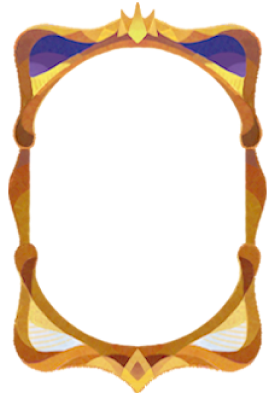
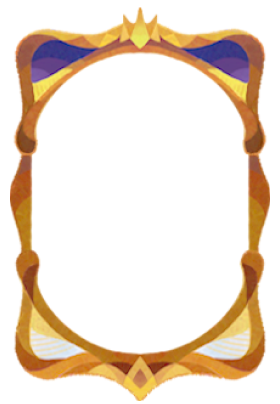
fix: add manual adjustments to certain units

diff --git a/src/components/ascension-card/CardDeckAscension.tsx b/src/components/ascension-card/CardDeckAscension.tsx
@@ -2,23 +2,24 @@
 import { useMemo, useState } from 'react';
 
 import type { CardAscensionProps } from '@/components/ascension-card/CardAscension';
-import type { Faction, Hero, HeroClass } from '@/utils/types';
+import type { Faction, HeroClass } from '@/utils/types';
 import type { FC, PropsWithChildren } from 'react';
 
 import CardAscension from '@/components/ascension-card/CardAscension';
 import { HeroDataProvider } from '@/components/ascension-card/HeroDataProvider';
+import { filterPairs } from '@/components/ascension-card/utils';
 import HeroFilter from '@/components/hero-filter/HeroFilter';
 import { filterHero } from '@/components/hero-filter/utils';
+import { SortedHeroes } from '@/utils/types';
 import { cleanString, compareStrings, joinStrings, kebabCase } from '@/utils/utils';
 
 interface CardDeckAscensionProps extends PropsWithChildren, CardAscensionProps {
   label?: string;
-  heroes?: Hero[];
   units?: Set<string>;
   hasLabel?: boolean;
 }
 
-const CardDeckAscension: FC<CardDeckAscensionProps> = ({ heroes, units, hasLabel, label, styleType }) => {
+const CardDeckAscension: FC<CardDeckAscensionProps> = ({ units, hasLabel, label, styleType }) => {
   const [filterClass, setFilterClass] = useState<HeroClass>();
   const [filterFaction, setFilterFaction] = useState<Faction>();
   const [filterSearch, setFilterSearch] = useState<string>('');
@@ -43,15 +44,17 @@ const CardDeckAscension: FC<CardDeckAscensionProps> = ({ heroes, units, hasLabel
     setFilterSearch,
   } as const;
 
+  const isTeam = !!units?.size;
+
   return (
     <div
       id={label ? kebabCase(label) : undefined}
       className={joinStrings(
         !compareStrings(styleType || '', 'inset') && 'container-primary',
-        'flex flex-col gap-1 items-center justify-start mx-4',
+        'flex flex-col gap-2 items-center justify-start mx-4',
       )}
     >
-      {!!heroes?.length && (
+      {!isTeam && (
         <div className="container-primary w-full">
           <HeroFilter {...filterProps} />
         </div>
@@ -59,24 +62,25 @@ const CardDeckAscension: FC<CardDeckAscensionProps> = ({ heroes, units, hasLabel
 
       {hasLabel && <h2 className="text-lg w-full text-center">{label}</h2>}
       <div className="flex flex-row flex-wrap gap-2 justify-center size-full">
-        {heroes?.map((heroData, i) => {
-          const { hero } = heroData;
-          const { matchesClass, matchesDamage, matchesFaction, matchesTier, validSearch } = filterHero(
-            heroData,
-            filters,
-          );
-          const noFilter = [filterClass, filterFaction].every(item => item === undefined);
-          const withFilter =
-            (matchesClass && matchesDamage && matchesFaction && matchesTier) || (!!regexSearch && validSearch);
-          const showCard = noFilter ? validSearch : withFilter;
+        {!isTeam &&
+          SortedHeroes?.filter(({ hero }) => filterPairs(hero)).map((heroData, i) => {
+            const { hero } = heroData;
+            const { matchesClass, matchesDamage, matchesFaction, matchesTier, validSearch } = filterHero(
+              heroData,
+              filters,
+            );
+            const noFilter = [filterClass, filterFaction].every(item => item === undefined);
+            const withFilter =
+              (matchesClass && matchesDamage && matchesFaction && matchesTier) || (!!regexSearch && validSearch);
+            const showCard = noFilter ? validSearch : withFilter;
 
-          return (
-            <HeroDataProvider key={`${hero}-${i}`} id={i} hero={hero} save>
-              <CardAscension styleType={styleType} cardClassName={!showCard && 'hidden'} />
-            </HeroDataProvider>
-          );
-        })}
-        {!!units?.size &&
+            return (
+              <HeroDataProvider key={`${hero}-${i}`} id={i} hero={hero} save>
+                <CardAscension styleType={styleType} cardClassName={!showCard && 'hidden'} />
+              </HeroDataProvider>
+            );
+          })}
+        {isTeam &&
           Array.from(units, (hero, i) => (
             <HeroDataProvider key={`${hero}-${i}`} id={i} hero={hero}>
               <CardAscension styleType={styleType} />

diff --git a/src/components/ascension-card/AscensionPortrait.tsx b/src/components/ascension-card/AscensionPortrait.tsx
@@ -4,7 +4,7 @@ import type { FC } from 'react';
 
 import { useHeroData } from '@/components/ascension-card/HeroDataProvider';
 import IconExWeapon from '@/components/ascension-card/IconExWeapon';
-import { FrameSet } from '@/components/ascension-card/types';
+import { FrameSet, ManualAdjustments } from '@/components/ascension-card/types';
 import { compareStrings, joinStrings } from '@/utils/utils';
 
 const AscensionPortrait: FC = () => {
@@ -26,13 +26,14 @@ const AscensionPortrait: FC = () => {
       return ascensionSrc;
     }
   };
+  const adjustments = ManualAdjustments[hero as keyof typeof ManualAdjustments];
 
   return (
-    <div className="crown-frame flex justify-center items-center w-30">
+    <div className="crown-frame flex justify-center items-center w-29">
       <div
         id={exportId}
         className={joinStrings(
-          isInFrameSet ? 'crown-frame w-30' : 'card-frame w-24',
+          isInFrameSet ? 'crown-frame w-29' : 'card-frame w-24',
           'relative flex justify-center items-center',
         )}
       >
@@ -42,7 +43,13 @@ const AscensionPortrait: FC = () => {
               <Image src={`/assets/images/ascension/background/${backgroundSrc()}.png`} alt="" fill />
             </div>
           )}
-          <div className="hero-portrait absolute -bottom-7 w-38">
+          <div
+            className={joinStrings(
+              'hero-portrait absolute',
+              adjustments?.bottom || '-bottom-6',
+              adjustments?.size || 'w-35',
+            )}
+          >
             <Image src={`/assets/images/portraits/${hero}.png`} alt="" fill />
           </div>
           {hasEx && <IconExWeapon src={exWeapon} type="Card" size="w-24" className="!absolute z-10 top-0.25" />}

diff --git a/src/components/ascension-card/EditorAscension.tsx b/src/components/ascension-card/EditorAscension.tsx
@@ -1,6 +1,5 @@
 'use client';
 import type { CardAscensionProps } from '@/components/ascension-card/CardAscension';
-import type { Hero } from '@/utils/types';
 import type { FC } from 'react';
 
 import CardDeckAscension from '@/components/ascension-card/CardDeckAscension';
@@ -8,25 +7,20 @@ import CardDeckAscension from '@/components/ascension-card/CardDeckAscension';
 interface EditorAscensionProps extends CardAscensionProps {
   teams?: Set<string>[];
   hasLabel?: boolean;
-  heroes?: Hero[];
 }
 
-const EditorAscension: FC<EditorAscensionProps> = ({ teams, styleType, hasLabel, heroes }) => (
-  <>
-    {!!heroes?.length && <CardDeckAscension heroes={heroes} />}
-    {teams?.map(
-      (units, i) =>
-        !!units.size && (
-          <CardDeckAscension
-            key={`ascension-deck-${i}`}
-            units={units}
-            label={`Team ${i + 1}`}
-            hasLabel={hasLabel}
-            styleType={styleType}
-          />
-        ),
-    )}
-  </>
-);
+const EditorAscension: FC<EditorAscensionProps> = ({ teams, styleType, hasLabel }) =>
+  teams?.map(
+    (units, i) =>
+      !!units.size && (
+        <CardDeckAscension
+          key={`ascension-deck-${i}`}
+          units={units}
+          label={`Team ${i + 1}`}
+          hasLabel={hasLabel}
+          styleType={styleType}
+        />
+      ),
+  );
 
 export default EditorAscension;

diff --git a/src/components/ascension-card/types.ts b/src/components/ascension-card/types.ts
@@ -1,5 +1,6 @@
 export const AscensionCardType = ['Hex', 'Card'] as const;
 export type AscensionCardType = (typeof AscensionCardType)[number];
+
 export const ExWeapon = [
   'None',
   ...Array(6)
@@ -7,8 +8,11 @@ export const ExWeapon = [
     .map((_, i) => `+${25 - 5 * i}` as `+${number}`),
 ] as const;
 export type ExWeapon = (typeof ExWeapon)[number];
+
 export type StyleTypes = 'container' | 'inset';
+
 export const FrameSet = new Set([
+  'supreme',
   'supreme+',
   ...(Array(4)
     .fill(null)
@@ -16,7 +20,27 @@ export const FrameSet = new Set([
   'crown',
 ] as const);
 export type FrameSet = typeof FrameSet extends Set<infer T> ? T : never;
+
 export const CardIcons = {
   Hex: 'akar-icons:hexagon-fill',
   Card: 'fa-solid:id-badge',
+} as const;
+
+export const ManualAdjustments = {
+  Temesia: {
+    bottom: '-bottom-2',
+    size: 'w-34',
+  },
+  Ludovic: {
+    bottom: '-bottom-4.5',
+    size: 'w-29',
+  },
+  Alsa: {
+    bottom: '-bottom-0.5',
+    size: 'w-30',
+  },
+  Reinier: {
+    bottom: 'bottom-1',
+    size: 'w-28',
+  },
 } as const;

diff --git a/src/components/ascension-card/HeroDataProvider.tsx b/src/components/ascension-card/HeroDataProvider.tsx
@@ -34,7 +34,7 @@ const HeroDataContext = createContext<HeroDataContextType | undefined>(undefined
 export const HeroDataProvider: FC<HeroDataProviderProps> = ({ id, hero, children, save }) => {
   const [loaded, setLoaded] = useState<boolean>(false);
   const [isExport, setExport] = useState<boolean>(false);
-  const [type, setType] = useState<AscensionCardType>('Hex');
+  const [type, setType] = useState<AscensionCardType>('Card');
   const [ascension, setAscension] = useState<Ascension>('Supreme+');
   const [exWeapon, setExWeapon] = useState<ExWeapon>('+5');
   const hasEx = enableEx(ascension);

diff --git a/src/app/(main)/editor/ascension/page.tsx b/src/app/(main)/editor/ascension/page.tsx
@@ -1,12 +1,11 @@
 import type { FC } from 'react';
 
-import EditorAscension from '@/components/ascension-card/EditorAscension';
+import CardDeckAscension from '@/components/ascension-card/CardDeckAscension';
 import Container from '@/components/container/Container';
-import { SortedHeroes } from '@/utils/types';
 
 const Index: FC = async () => (
   <Container className="flex flex-col py-2 px-12">
-    <EditorAscension heroes={SortedHeroes} />
+    <CardDeckAscension />
   </Container>
 );
 

diff --git a/src/app/(main)/editor/page.tsx b/src/app/(main)/editor/page.tsx
@@ -87,7 +87,14 @@ const Index: FC = () => {
 
   const ascensionEditor = (
     <EditorAscension
-      teams={teams.map(({ units }) => new Set(Object.values(units).map(({ unit }) => filterPairs(unit))))}
+      teams={teams.map(
+        ({ units }) =>
+          new Set(
+            Object.values(units)
+              .filter(({ unit }) => filterPairs(unit))
+              .map(({ unit }) => unit),
+          ),
+      )}
       styleType="inset"
       hasLabel
     />

diff --git a/src/components/ascension-card/AscensionHex.tsx b/src/components/ascension-card/AscensionHex.tsx
@@ -9,7 +9,7 @@ const AscensionHex: FC = () => {
   const { exportId, hero, ascension, exWeapon, hasEx } = useHeroData();
 
   return (
-    <div className="crown-frame flex flex-row items-center justify-center w-30">
+    <div className="crown-frame flex flex-row items-center justify-center w-29">
       <div id={exportId} className="flex flex-row justify-center items-end">
         <IconAscension src={ascension} size="h-22" />
         <div className="flex flex-col">

diff --git a/src/components/ascension-card/utils.ts b/src/components/ascension-card/utils.ts
@@ -3,12 +3,12 @@ import { Ascension } from '@/utils/types';
 export const filterPairs = (unit: string) => {
   switch (unit) {
     case 'Phraesto Clone':
-      return 'Phraesto';
+      return false;
     case 'Elijah':
     case 'Lailah':
-      return 'Elijah & Lailah';
+      return false;
     default:
-      return unit;
+      return true;
   }
 };
 

diff --git a/src/styles/globals.css b/src/styles/globals.css
@@ -415,7 +415,7 @@
     aspect-ratio: 232 / 328;
   }
   .crown-frame {
-    aspect-ratio: 275 / 396;
+    aspect-ratio: 280 / 404;
   }
   .hero-portrait {
     aspect-ratio: 180 / 248;

diff --git a/src/components/discussion/EditorMain.tsx b/src/components/discussion/EditorMain.tsx
@@ -26,7 +26,7 @@ const EditorMain: FC = () => {
     if (i === values.length - 1) {
       return values[0];
     }
-    
+
     return values[i + 1];
   };
 
